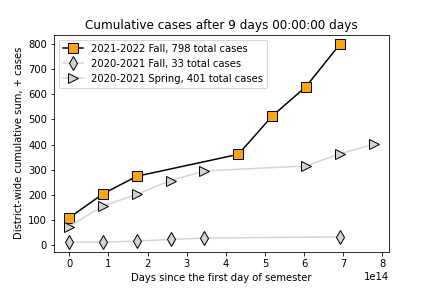
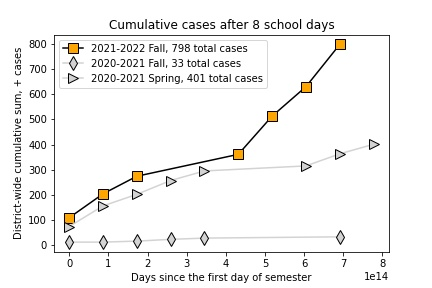
Generate new cumulative sum figures and fix issue with the title of that figure.

Changed region(s): [[0.1806, 0.0625, 0.8426, 0.125]]

diff --git a/dashboard_analysis.py b/dashboard_analysis.py
@@ -168,9 +168,10 @@ ax.legend(
         '2020-2021 Spring, ' + str(max(daily_cum_sum_winter2020)) + ' total cases'
         ]
 )
-ax.set_title('Cumulative cases after ' + str(length_current_year))
+ax.set_title('Cumulative cases after ' + str((length_current_year - datetime.timedelta(days=1)).days) + ' school days')
 plt.savefig('DailyCumsumComparison.png')
 plt.savefig('DailyCumsumComparison.jpg')
+plt.savefig('DailyCumsumComparison.pdf')
 
 # %% [markdown]
 # ## Focus on North Pinellas County vs. South Pinellas County
